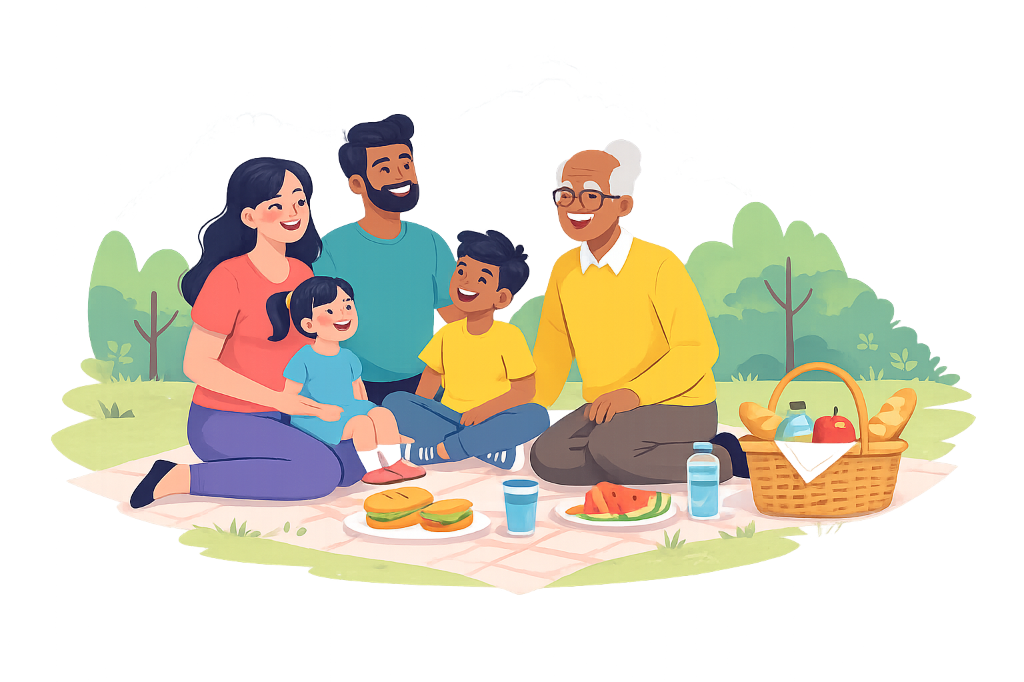
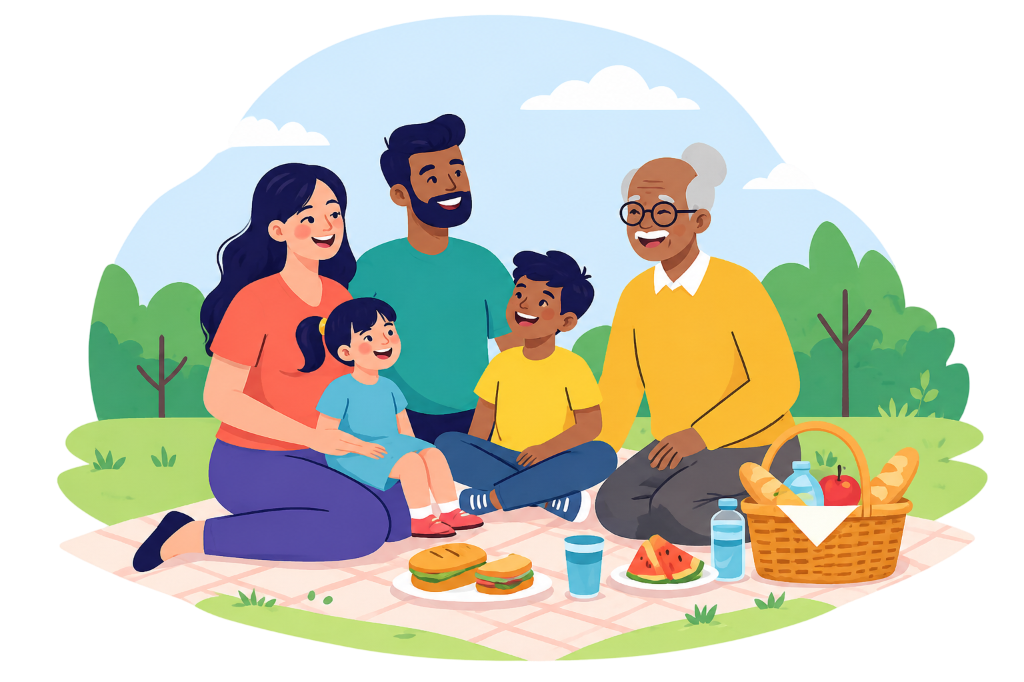
Make login glass more transparent, use new transparent hero image and make it larger

diff --git a/client/src/pages/Login.jsx b/client/src/pages/Login.jsx
@@ -45,7 +45,7 @@ export default function Login() {
           display: flex;
           max-width: 960px;
           width: 100%;
-          background: rgba(255, 255, 255, 0.45);
+          background: rgba(255, 255, 255, 0.2);
           backdrop-filter: blur(16px);
           -webkit-backdrop-filter: blur(16px);
           border: 1px solid rgba(255, 255, 255, 0.7);
@@ -57,7 +57,7 @@ export default function Login() {
         }
 
         .illustration-section {
-          flex: 1;
+          flex: 1.1;
           display: flex;
           align-items: center;
           justify-content: center;
@@ -66,7 +66,9 @@ export default function Login() {
         }
 
         .family-illustration {
-          max-width: 100%;
+          max-width: 110%;
+          width: 110%;
+          transform: translateX(-5%);
           height: auto;
           object-fit: contain;
         }